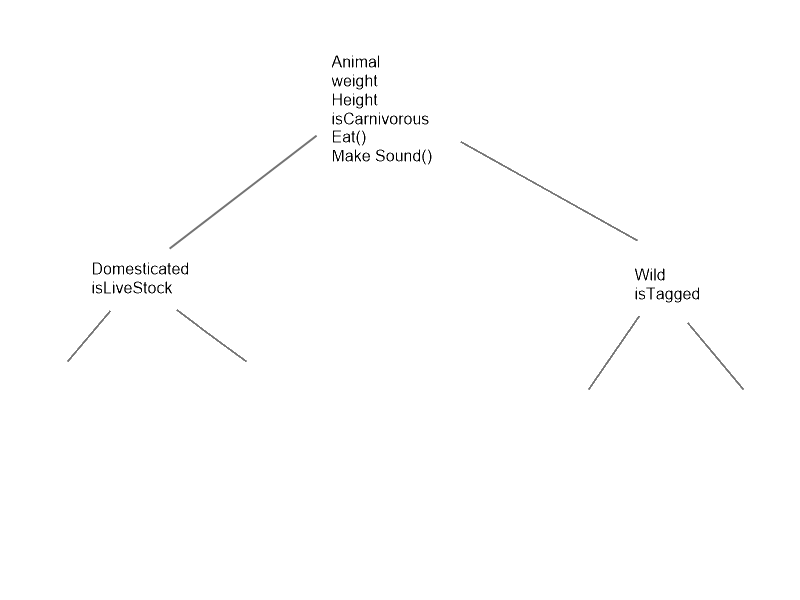
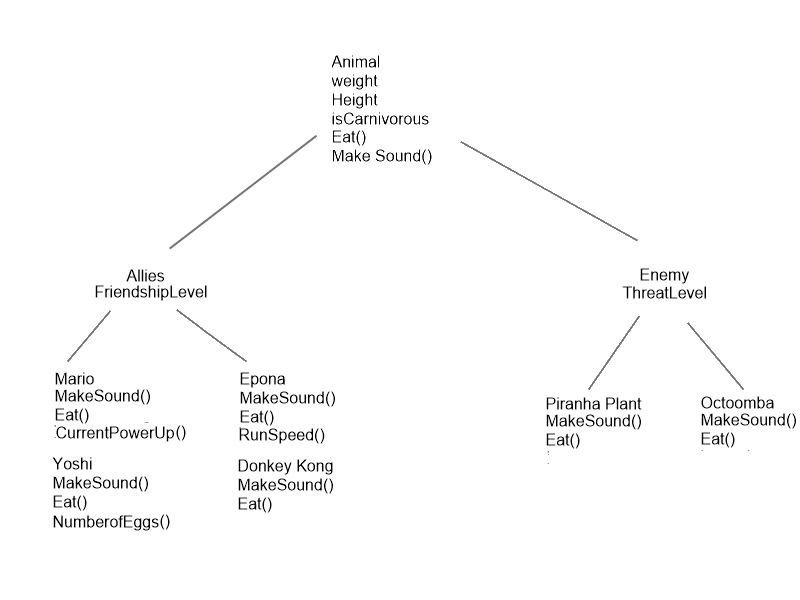
Finished Abstraction and Inheritance.

diff --git a/Semester 2/Abstraction and Inheritance/Abstraction and Inheritance/Mario.cs b/Semester 2/Abstraction and Inheritance/Abstraction and Inheritance/Mario.cs
@@ -6,24 +6,26 @@ using System.Threading.Tasks;
 
 namespace Abstraction_and_Inheritance
 {
-    class Octoomba : Enemy
+    class Mario : Allies
     {
-        public Octoomba(float weight, float height, float ThreatLevel)
-            : base(weight, height, ThreatLevel)
+        public string CurrentPowerUp;
+        public Mario(float weight, float height, float FriendshipLevel, string CurrentPowerUp) : base(weight, height, FriendshipLevel)
         {
             isCarnivorous = false;
+            this.CurrentPowerUp = CurrentPowerUp;
         }
 
         public override void Eat()
         {
             base.Eat();
-            Console.WriteLine(" Rocks!");
+            Console.WriteLine(" Mushrooms!");
             Console.WriteLine();
         }
 
         public override void MakeSound()
         {
-            Console.WriteLine("Pomp!");
+            Console.WriteLine("It's a me, "+ CurrentPowerUp + " Mario.");
+            
         }
     }
 }

diff --git a/Semester 2/Abstraction and Inheritance/Abstraction and Inheritance/Epona.cs b/Semester 2/Abstraction and Inheritance/Abstraction and Inheritance/Epona.cs
@@ -6,24 +6,26 @@ using System.Threading.Tasks;
 
 namespace Abstraction_and_Inheritance
 {
-    class Octoomba : Enemy
+    class Epona : Allies
     {
-        public Octoomba(float weight, float height, float ThreatLevel)
-            : base(weight, height, ThreatLevel)
+        public float RunSpeed;
+        public Epona(float weight, float height, float FriendshipLevel, float RunSpeed) : base(weight, height, FriendshipLevel)
         {
             isCarnivorous = false;
+            this.RunSpeed = RunSpeed;
         }
 
         public override void Eat()
         {
             base.Eat();
-            Console.WriteLine(" Rocks!");
+            Console.WriteLine(" Apples!");
             Console.WriteLine();
         }
 
         public override void MakeSound()
         {
-            Console.WriteLine("Pomp!");
+            Console.WriteLine("I go " + RunSpeed + " Speed.");
+            
         }
     }
 }

diff --git a/Semester 2/Abstraction and Inheritance/Abstraction and Inheritance/Yoshi.cs b/Semester 2/Abstraction and Inheritance/Abstraction and Inheritance/Yoshi.cs
@@ -6,23 +6,28 @@ using System.Threading.Tasks;
 
 namespace Abstraction_and_Inheritance
 {
-    class Yoshi : Animal
+    class Yoshi : Allies
     {
-        public Yoshi(float weight, float height)
-            : base(weight, height)
+        public float NumberofEggs;
+        public Yoshi(float weight, float height, float FriendshipLevel, float NumberofEggs) : base(weight, height, FriendshipLevel)
         {
             isCarnivorous = false;
+            this.NumberofEggs = NumberofEggs;
         }
 
         public override void Eat()
         {
             base.Eat();
-            Console.WriteLine("Wigglers!");
+            Console.WriteLine(" Wigglers!");
+            Console.WriteLine();
         }
 
         public override void MakeSound()
         {
-            Console.WriteLine("YOSHI!");
+            Console.WriteLine("YOSHI! I have " + NumberofEggs + " Eggs.");
+            
         }
+
+
     }
 }

diff --git a/Semester 2/Abstraction and Inheritance/Abstraction and Inheritance/Program.cs b/Semester 2/Abstraction and Inheritance/Abstraction and Inheritance/Program.cs
@@ -10,18 +10,20 @@ namespace Abstraction_and_Inheritance
     {
         static void Main(string[] args)
         {
-            Console.WriteLine("Please select the character you want");
-
             List<Animal> animals = new List<Animal>();
-            animals.Add(new Yoshi(10, 5));
-            animals.Add(new Octoomba(8, 3));
-            animals.Add(new Piranha_Plant(15, 6));
+            animals.Add(new Yoshi(10, 5, 4, 3));
+            animals.Add(new Octoomba(8, 3, 2));
+            animals.Add(new Piranha_Plant(15, 6, 3));
+            animals.Add(new Mario(80, 5, 4, "Ice"));
+            animals.Add(new DonkeyKong(220, 5, 4));
+            animals.Add(new Epona(200, 5, 4, 4));
 
             for (int i = 0; i < animals.Count; i++)
             {
                 animals[i].MakeSound();
                 animals[i].Eat();
             }
+            Console.ReadLine();
         }
     }
 }

diff --git a/Semester 2/Abstraction and Inheritance/Abstraction and Inheritance/DonkeyKong.cs b/Semester 2/Abstraction and Inheritance/Abstraction and Inheritance/DonkeyKong.cs
@@ -6,10 +6,11 @@ using System.Threading.Tasks;
 
 namespace Abstraction_and_Inheritance
 {
-    class Octoomba : Enemy
+    class DonkeyKong: Allies
     {
-        public Octoomba(float weight, float height, float ThreatLevel)
-            : base(weight, height, ThreatLevel)
+
+        public DonkeyKong(float weight, float height, float FriendshipLevel)
+            : base(weight, height, FriendshipLevel)
         {
             isCarnivorous = false;
         }
@@ -17,13 +18,13 @@ namespace Abstraction_and_Inheritance
         public override void Eat()
         {
             base.Eat();
-            Console.WriteLine(" Rocks!");
+            Console.WriteLine(" Bananas!");
             Console.WriteLine();
         }
 
         public override void MakeSound()
         {
-            Console.WriteLine("Pomp!");
+            Console.WriteLine("OO OO AW!");
         }
     }
 }

diff --git a/Semester 2/Abstraction and Inheritance/Abstraction and Inheritance/Piranha Plant.cs b/Semester 2/Abstraction and Inheritance/Abstraction and Inheritance/Piranha Plant.cs
@@ -6,10 +6,10 @@ using System.Threading.Tasks;
 
 namespace Abstraction_and_Inheritance
 {
-    class Piranha_Plant : Animal
+    class Piranha_Plant : Enemy
     {
-        public Piranha_Plant(float weight, float height)
-            : base(weight, height)
+        public Piranha_Plant(float weight, float height, float ThreatLevel)
+            : base(weight, height, ThreatLevel)
         {
             isCarnivorous = false;
         }
@@ -17,7 +17,8 @@ namespace Abstraction_and_Inheritance
         public override void Eat()
         {
             base.Eat();
-            Console.WriteLine("Fire Balls!");
+            Console.WriteLine(" Fire Balls!");
+            Console.WriteLine();
         }
 
         public override void MakeSound()

diff --git a/Semester 2/Abstraction and Inheritance/Abstraction and Inheritance/Allies.cs b/Semester 2/Abstraction and Inheritance/Abstraction and Inheritance/Allies.cs
@@ -1,0 +1,22 @@
+using System;
+using System.Collections.Generic;
+using System.Linq;
+using System.Text;
+using System.Threading.Tasks;
+
+namespace Abstraction_and_Inheritance
+{
+    class Allies : Animal
+    {
+        public float FriendshipLevel;
+        public Allies(float weight, float height, float FriendshipLevel) : base(weight, height)
+        {
+            this.FriendshipLevel = FriendshipLevel;
+        }
+
+        public override void MakeSound()
+        {
+            throw new NotImplementedException();
+        }
+    }
+}

diff --git a/Semester 2/Abstraction and Inheritance/Abstraction and Inheritance/Enemy.cs b/Semester 2/Abstraction and Inheritance/Abstraction and Inheritance/Enemy.cs
@@ -1,0 +1,22 @@
+using System;
+using System.Collections.Generic;
+using System.Linq;
+using System.Text;
+using System.Threading.Tasks;
+
+namespace Abstraction_and_Inheritance
+{
+    class Enemy : Animal
+    {
+        public float ThreatLevel;
+        public Enemy(float weight, float height, float ThreatLevel) : base(weight, height)
+        {
+            this.ThreatLevel = ThreatLevel;
+        }
+
+        public override void MakeSound()
+        {
+            throw new NotImplementedException();
+        }
+    }
+}
